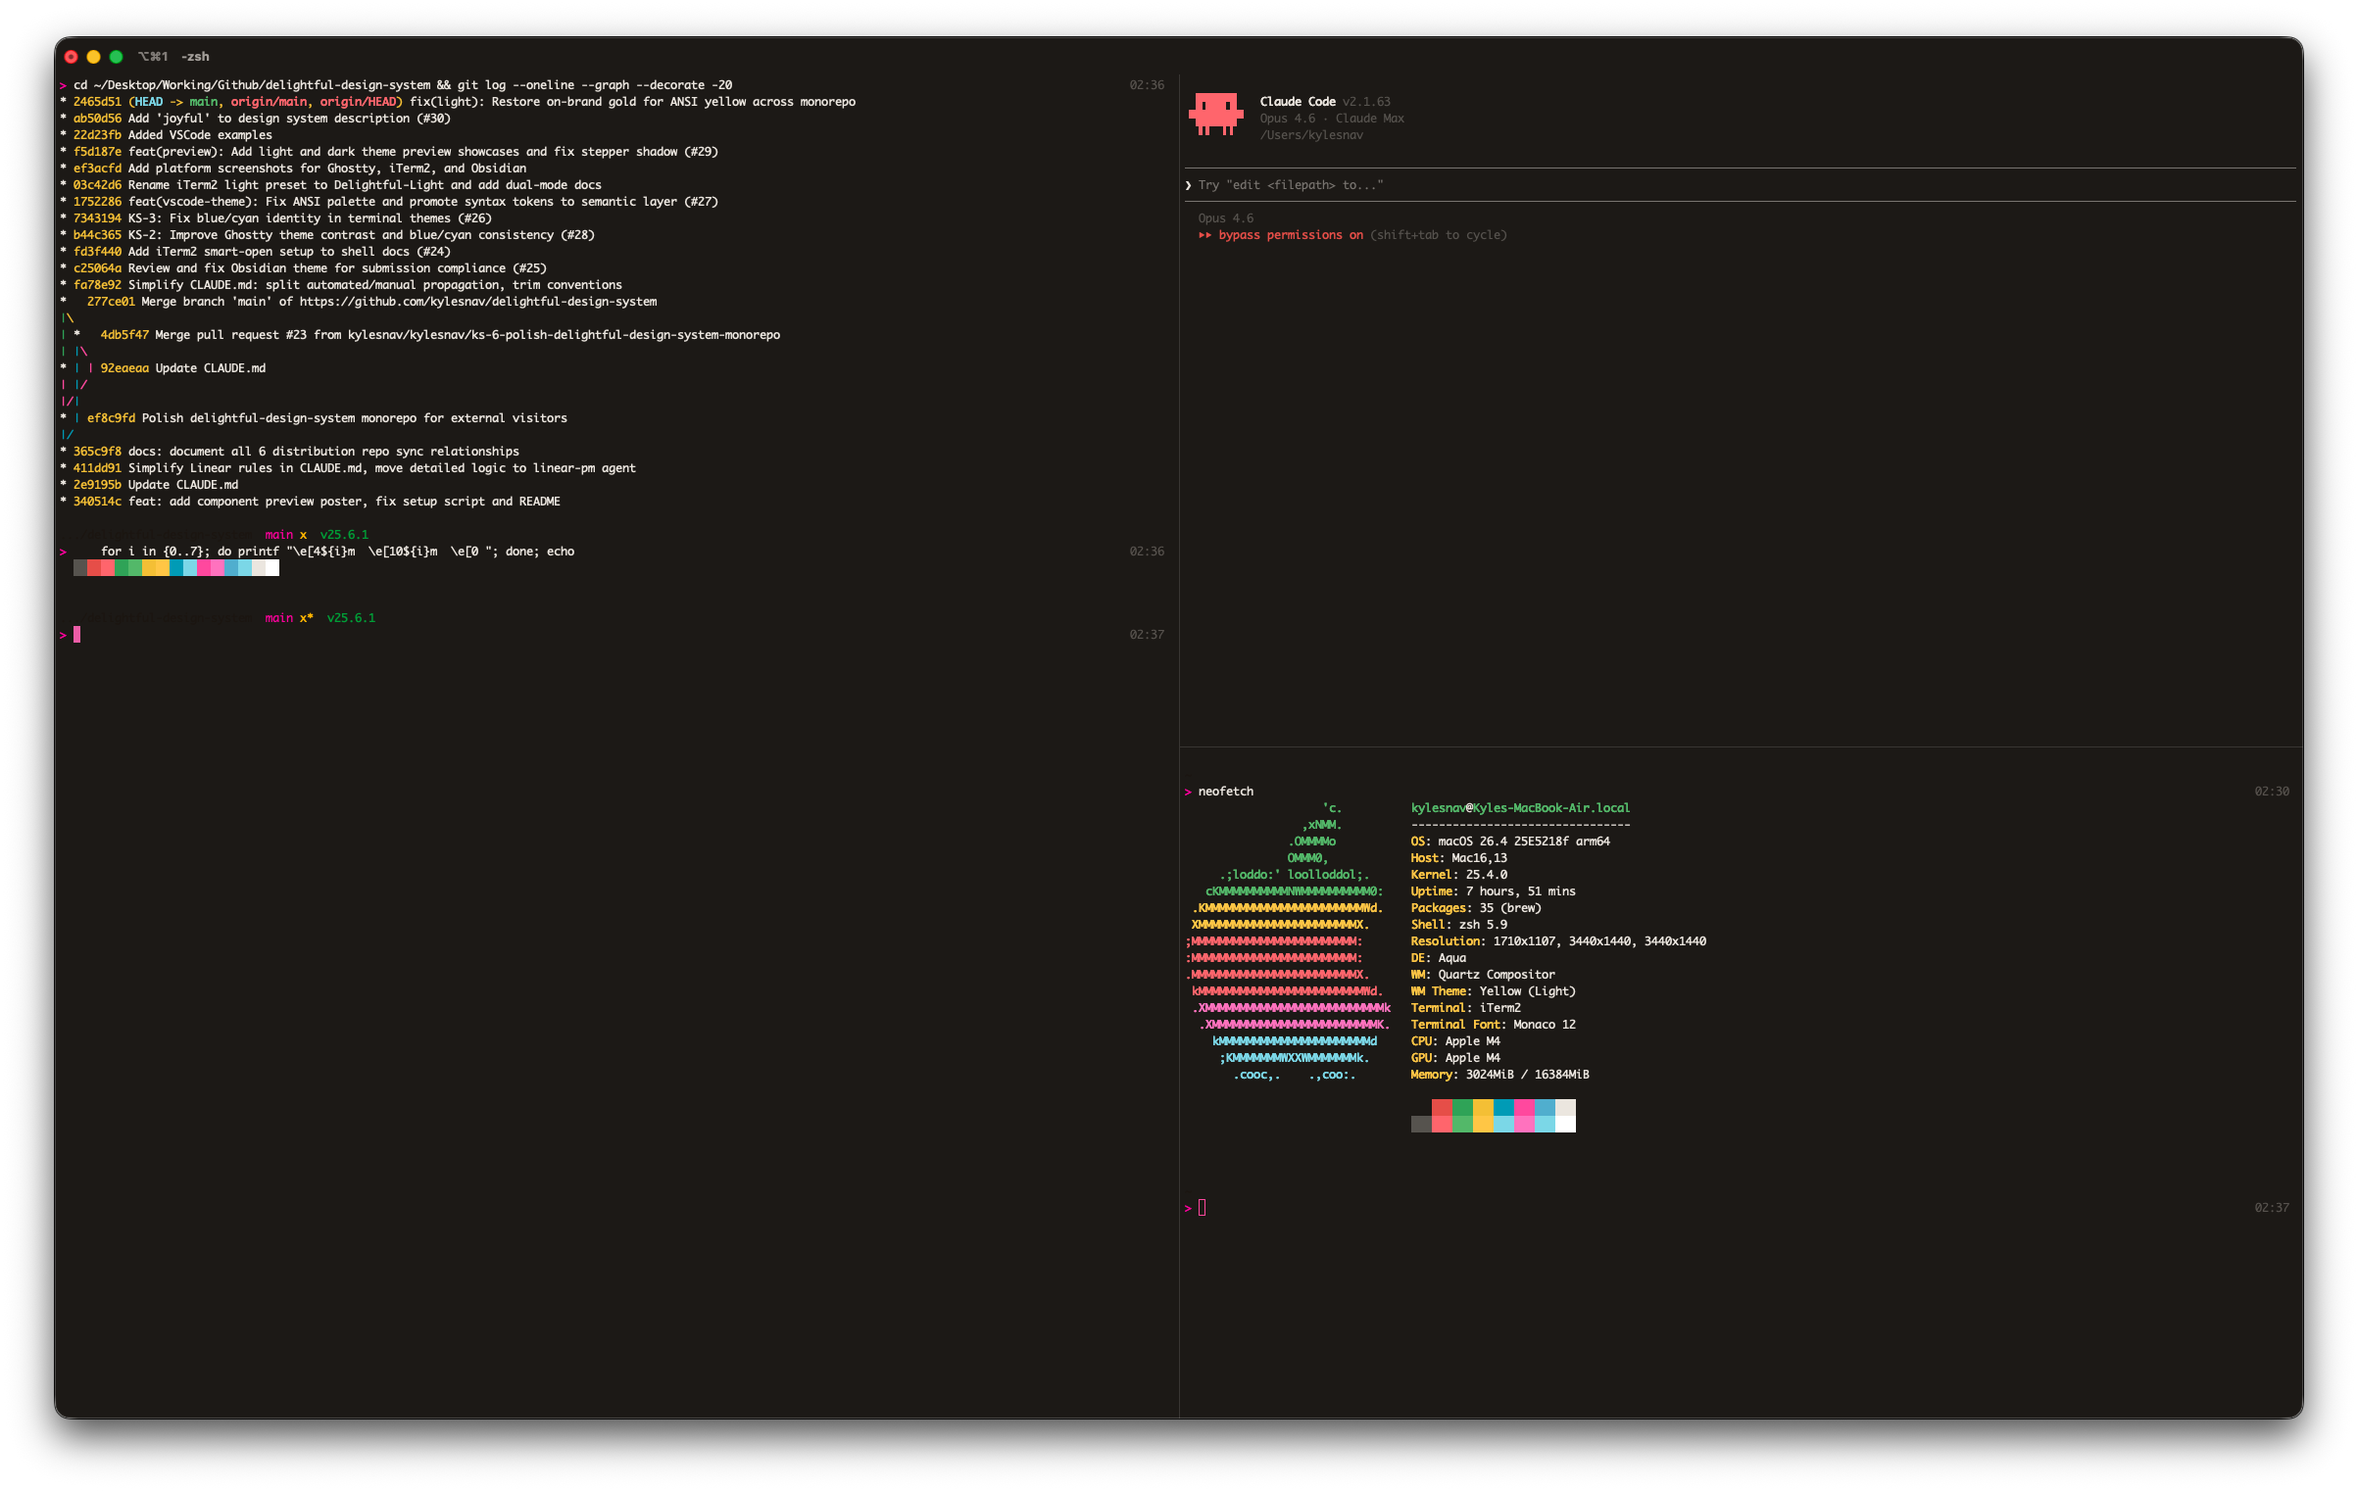
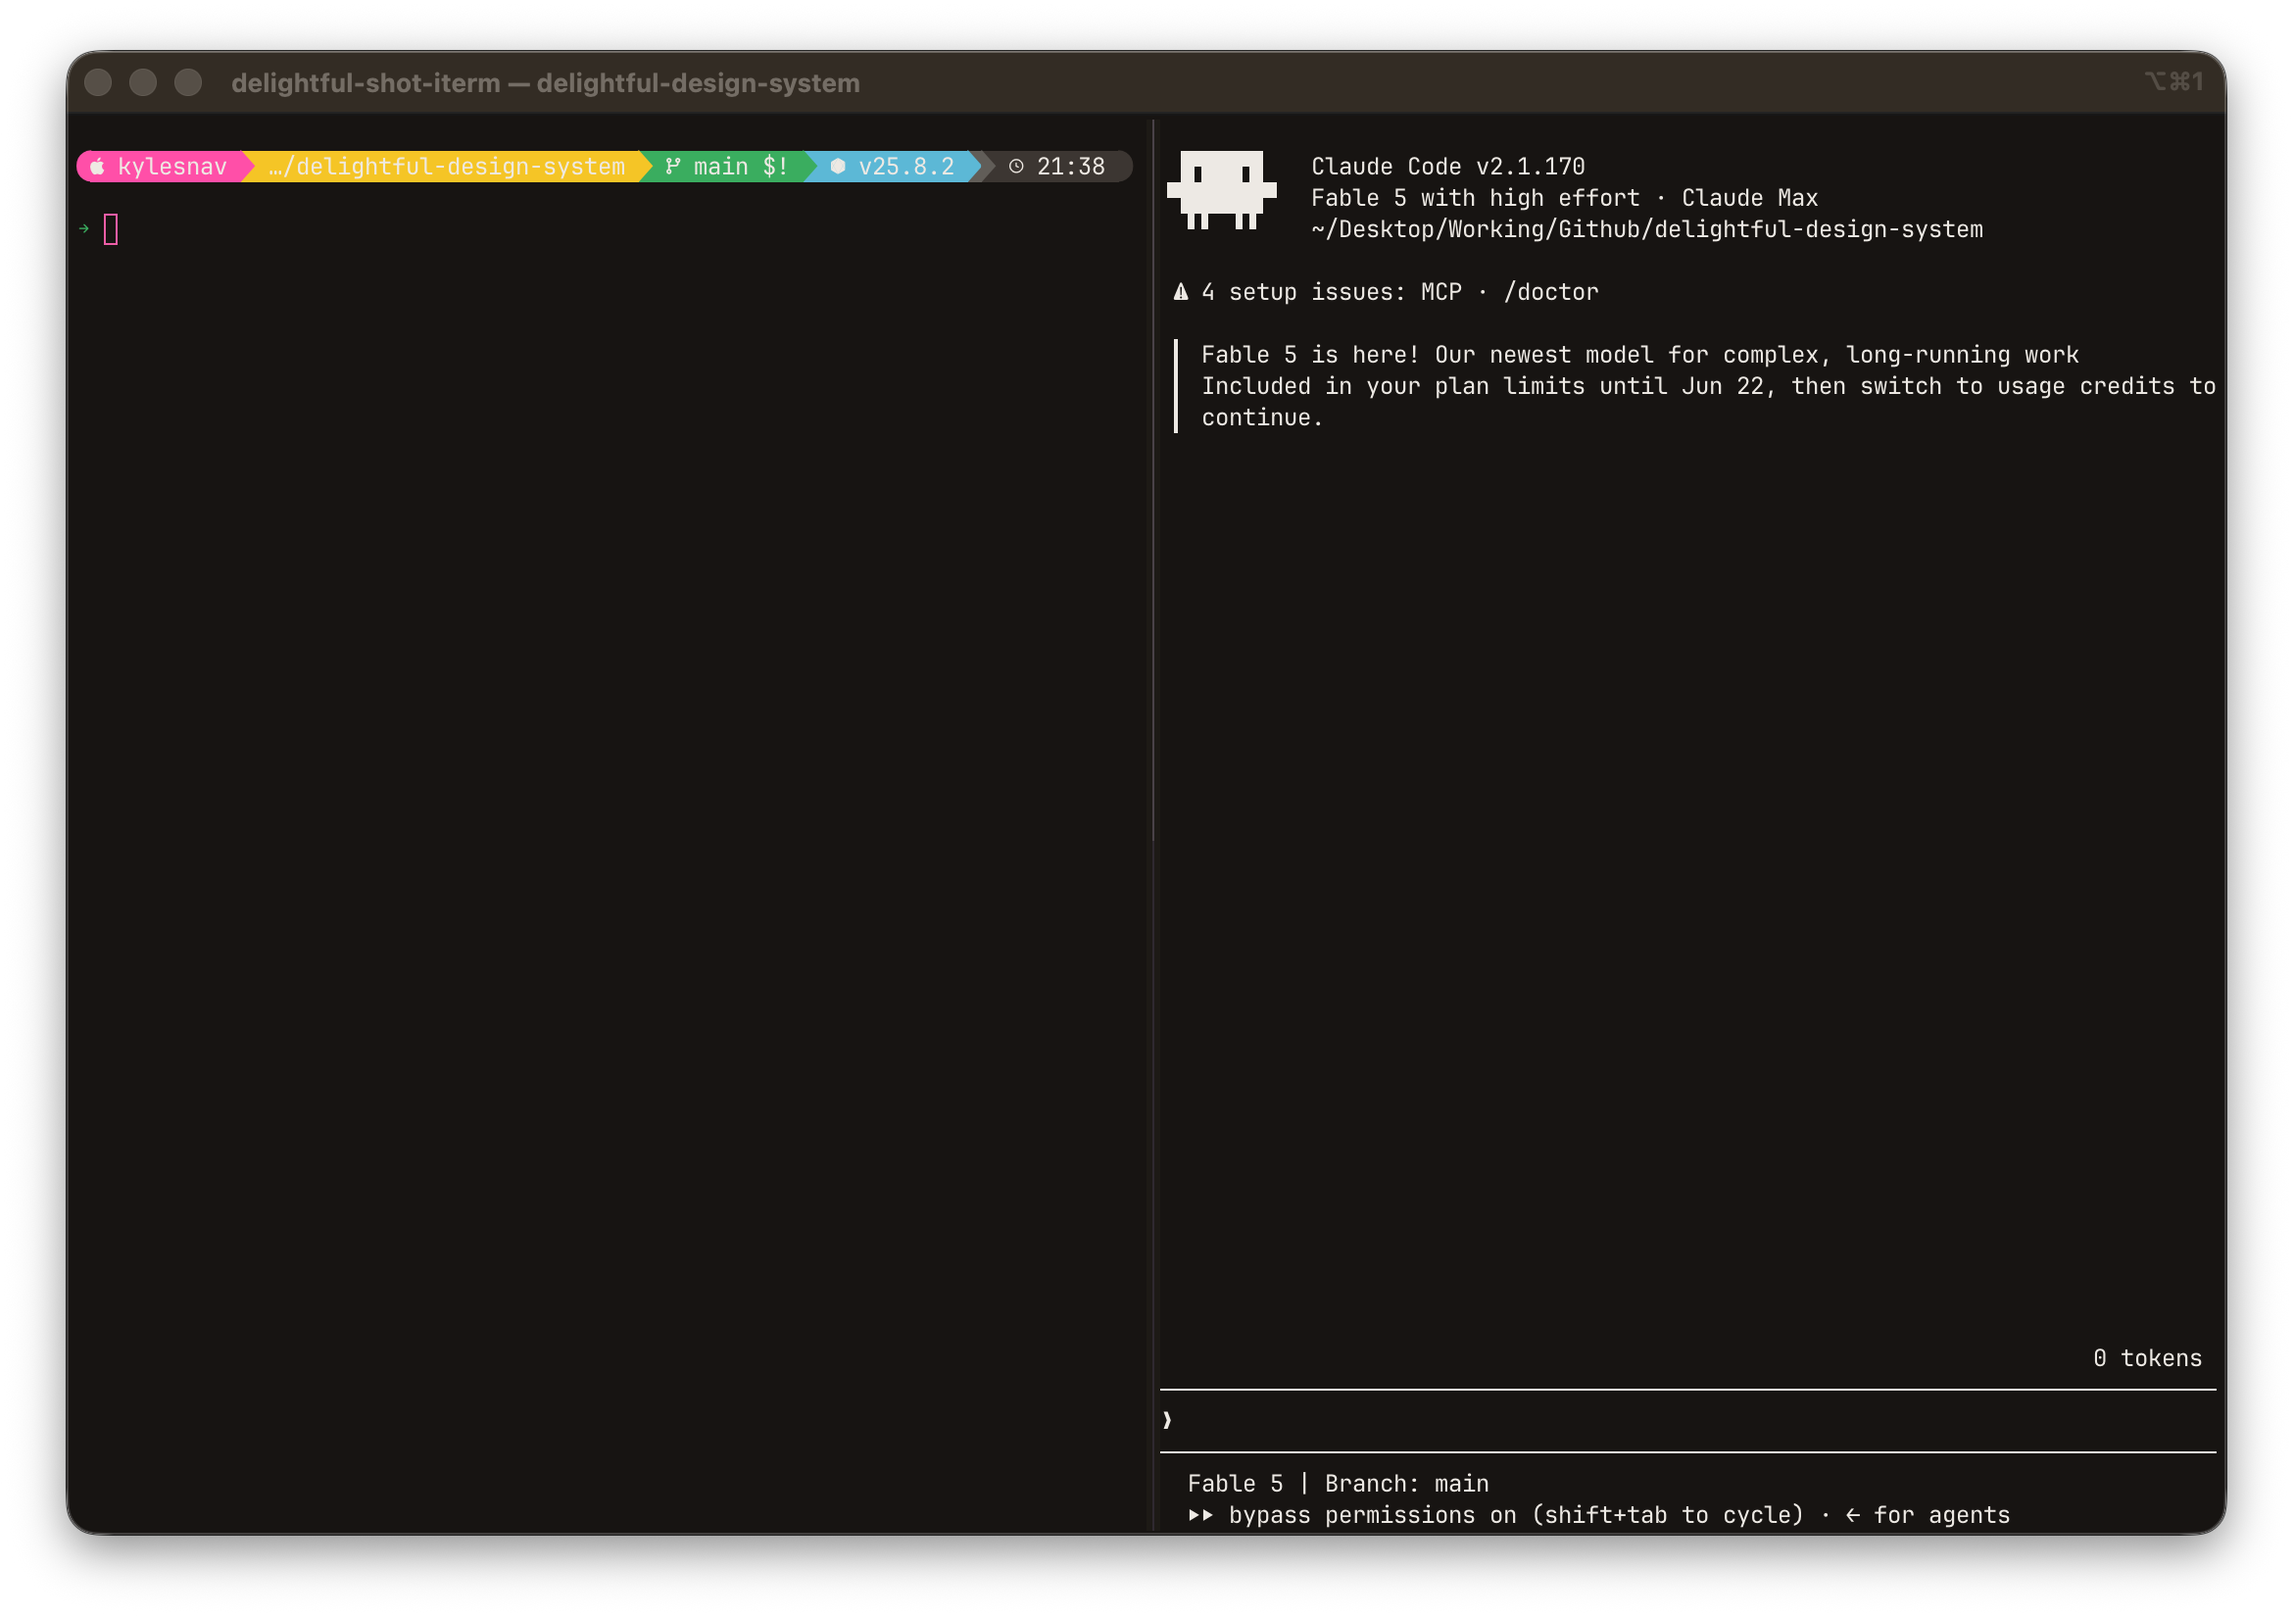
docs: restore dark README screenshot

diff --git a/AGENTS.md b/AGENTS.md
@@ -24,4 +24,4 @@ The generated files must match committed output unless the palette intentionally
 
 ## Screenshots
 
-Screenshots should show real iTerm2 light and dark profiles. Refresh them when the generated profiles or recommended appearance settings visibly change.
+Screenshots should show a real iTerm2 session using the Delightful dark profile. Refresh them when the generated profiles or recommended appearance settings visibly change.

diff --git a/README.md b/README.md
@@ -1,5 +1,5 @@
 <p align="center">
-
+  <img src="screenshots/iTerm2-Dark.png" width="760" alt="iTerm2 running Delightful dark profile with Starship and Claude Code" />
 </p>
 
 <h1 align="center">Delightful for iTerm2</h1>
